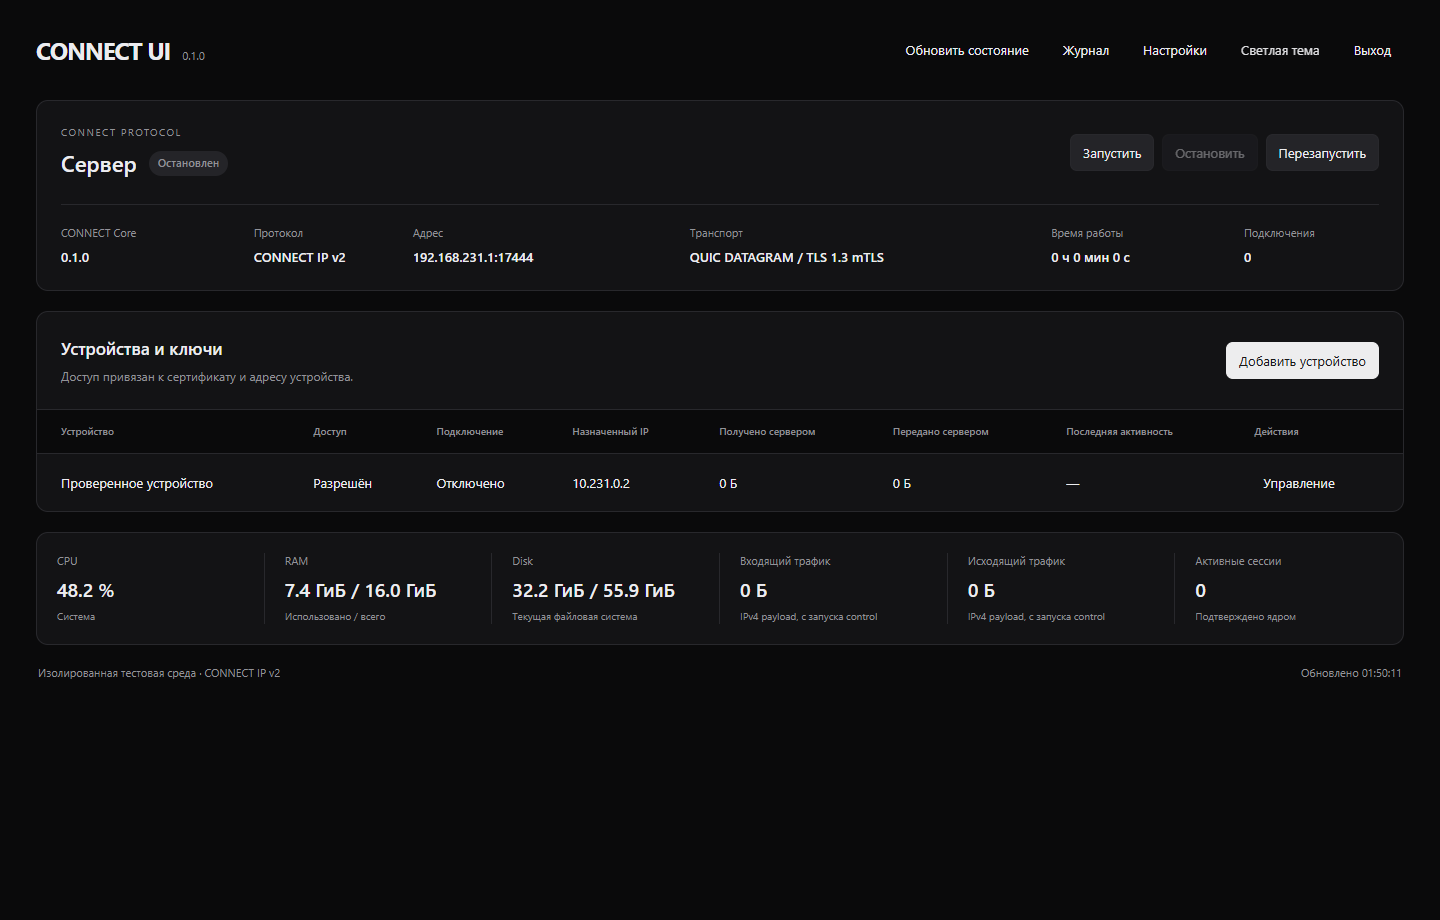
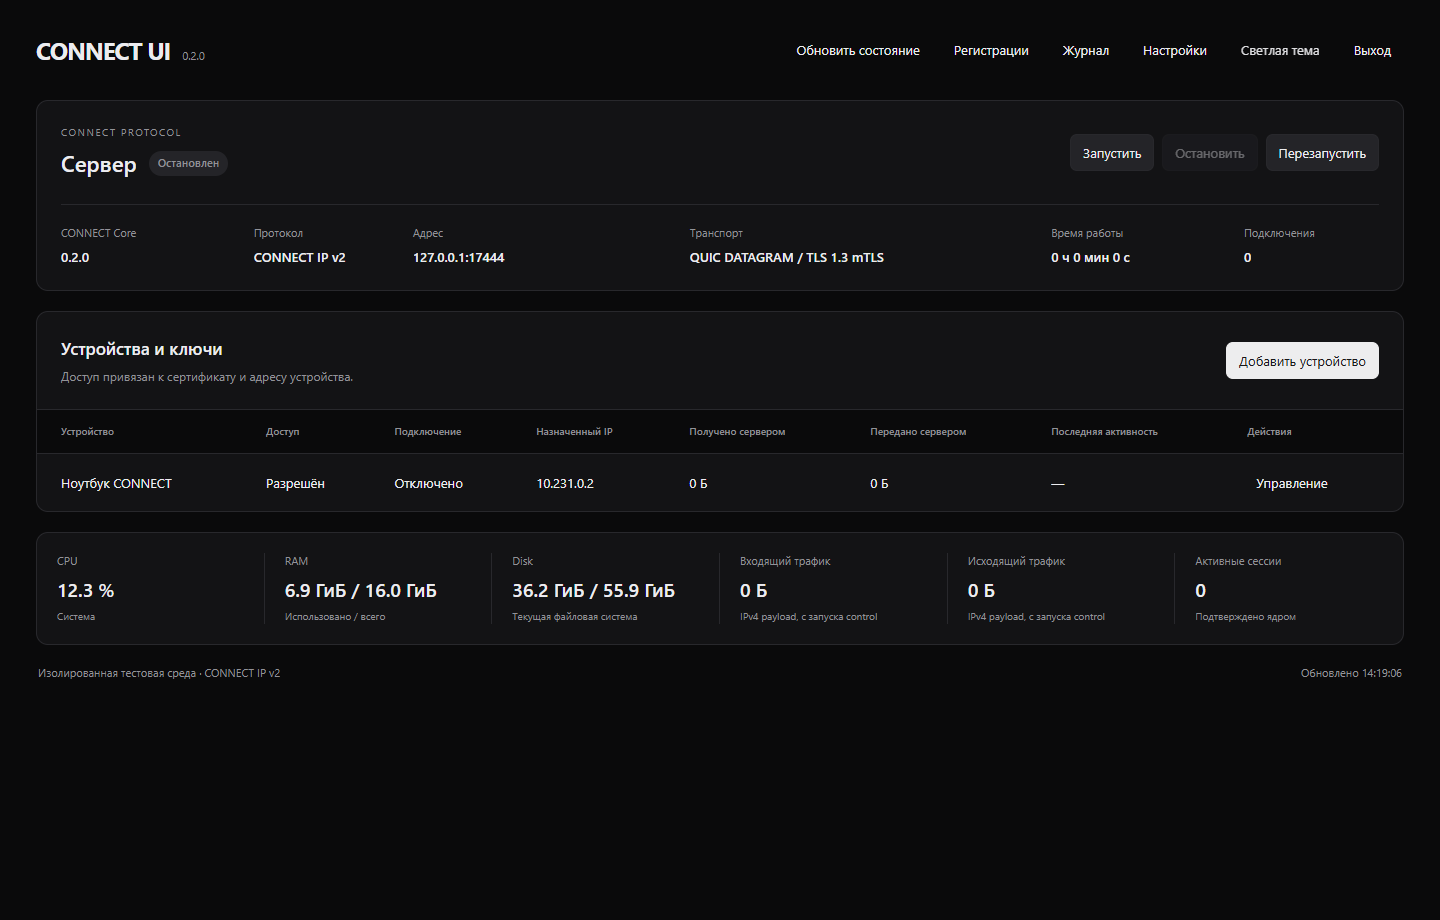
Validate real client URI onboarding and scoped VPS forwarding with service hardening

diff --git a/scripts/connect-install.py b/scripts/connect-install.py
@@ -122,9 +122,10 @@ def build(args, stage):
 
 def unit_files():
     hardening = 'NoNewPrivileges=yes\nProtectSystem=strict\nProtectHome=yes\nPrivateTmp=yes\nUMask=0077\nRestrictAddressFamilies=AF_INET AF_INET6 AF_UNIX\n'
+    core_hardening = hardening.replace('AF_INET AF_INET6 AF_UNIX', 'AF_INET AF_INET6 AF_UNIX AF_NETLINK')
     return {
         'connect-core-network.service': '[Unit]\nDescription=CONNECT owned TUN and scoped rules\nAfter=network-online.target\nWants=network-online.target\nBefore=connect-core.service\n\n[Service]\nType=oneshot\nRemainAfterExit=yes\nExecStart=/usr/bin/python3 /opt/connect-core/current/scripts/connect-vps-network.py apply /var/lib/connect-core-installer/network.json\nExecStop=/usr/bin/python3 /opt/connect-core/current/scripts/connect-vps-network.py rollback /var/lib/connect-core-installer/network.json\n\n[Install]\nWantedBy=multi-user.target\n',
-        'connect-core.service': '[Unit]\nDescription=CONNECT Core control and IP v2 server\nRequires=connect-core-network.service\nAfter=connect-core-network.service\n\n[Service]\nUser=connectcore\nSupplementaryGroups=connectadmin\nExecStart=/opt/connect-core/current/bin/connect-control serve /var/lib/connect-core/control/control.json\nRestart=on-failure\nRestartSec=3\nTimeoutStopSec=20\n' + hardening + 'ReadWritePaths=/var/lib/connect-core/control\nCapabilityBoundingSet=\nDevicePolicy=closed\nDeviceAllow=/dev/net/tun rw\n\n[Install]\nWantedBy=multi-user.target\n',
+        'connect-core.service': '[Unit]\nDescription=CONNECT Core control and IP v2 server\nRequires=connect-core-network.service\nAfter=connect-core-network.service\n\n[Service]\nUser=connectcore\nSupplementaryGroups=connectadmin\nExecStart=/opt/connect-core/current/bin/connect-control serve /var/lib/connect-core/control/control.json\nRestart=on-failure\nRestartSec=3\nTimeoutStopSec=20\n' + core_hardening + 'ReadWritePaths=/var/lib/connect-core/control\nCapabilityBoundingSet=\nDevicePolicy=closed\nDeviceAllow=/dev/net/tun rw\n\n[Install]\nWantedBy=multi-user.target\n',
         'connect-ui.service': '[Unit]\nDescription=CONNECT UI local panel\nAfter=connect-core.service\n\n[Service]\nUser=connectui\nSupplementaryGroups=connectadmin\nExecStart=/opt/connect-core/current/bin/connect-ui serve /etc/connect-core/ui.json\nRestart=on-failure\nRestartSec=3\nTimeoutStopSec=20\n' + hardening + 'CapabilityBoundingSet=\n\n[Install]\nWantedBy=multi-user.target\n',
     }
 
@@ -280,6 +281,10 @@ def main():
         if a.action == 'install':
             if not a.endpoint: raise RuntimeError('--endpoint ASSIGNED_IPV4:UDP_PORT is required')
             ensure_fresh()
+            endpoint_port = int(a.endpoint.rsplit(':', 1)[1])
+            ports = {endpoint_port: socket.SOCK_DGRAM, a.panel_port: socket.SOCK_STREAM, a.control_port: socket.SOCK_STREAM, a.enrollment_port: socket.SOCK_STREAM}
+            if len(ports) != 4: raise RuntimeError('CONNECT ports must be distinct')
+            check_ports(ports)
         else:
             m = json.loads((JOURNAL / 'manifest.json').read_text()); verify_owned(m)
             if a.action == 'status': print(json.dumps({k:v for k,v in m.items() if k in ['schema','revision','previous_revision','panel_port','installed']}, indent=2)); return

diff --git a/scripts/installer-smoke.py b/scripts/installer-smoke.py
@@ -38,9 +38,16 @@ with tempfile.TemporaryDirectory(prefix='connect-installer-check-') as td:
     # A real neighboring service + firewall chain survive installation/uninstall.
     neighbor = subprocess.Popen([sys.executable,'-m','http.server','17889','--bind','127.0.0.1'], stdout=subprocess.DEVNULL, stderr=subprocess.DEVNULL)
     run('iptables','-N','CONNECT_NEIGHBOR_FIXTURE');run('iptables','-A','CONNECT_NEIGHBOR_FIXTURE','-j','RETURN')
-    run('ip','addr','add','198.18.0.1/32','dev','lo')
+    # A separate service namespace proves actual forwarding and masquerade,
+    # instead of merely injecting a packet into a host-local UDP socket.
+    run('ip','netns','add','connect-install-fixture')
+    run('ip','link','add','cc-eg0','type','veth','peer','name','cc-es0','netns','connect-install-fixture')
+    run('ip','addr','add','198.18.0.2/24','dev','cc-eg0');run('ip','link','set','cc-eg0','up')
+    run('ip','-n','connect-install-fixture','addr','add','198.18.0.1/24','dev','cc-es0');run('ip','-n','connect-install-fixture','link','set','cc-es0','up');run('ip','-n','connect-install-fixture','link','set','lo','up')
+    echo=subprocess.Popen(['ip','netns','exec','connect-install-fixture',str(root/'bin'/'connect-vps-probe'),'serve'],stdout=subprocess.PIPE,stderr=subprocess.DEVNULL,text=True)
+    assert echo.stdout.readline().strip()=='ready', 'UDP service fixture not ready'
     before_firewall=network.firewall();before_routes=network.routes();before_global=pathlib.Path('/proc/sys/net/ipv4/ip_forward').read_text()
-    args = [sys.executable,str(root/'scripts'/'connect-install.py'),'install','--source',str(root),'--endpoint','127.0.0.1:17444','--password-file',str(secret),'--yes']
+    args = [sys.executable,str(root/'scripts'/'connect-install.py'),'install','--source',str(root),'--endpoint','127.0.0.1:17444','--uplink','cc-eg0','--password-file',str(secret),'--yes']
     importer = None
     try:
         # Occupied-port check rejects before accounts/services/interfaces are created.
@@ -109,4 +116,4 @@ with tempfile.TemporaryDirectory(prefix='connect-installer-check-') as td:
         if (installer.JOURNAL/'manifest.json').exists():
             installer.rollback_install(json.loads((installer.JOURNAL/'manifest.json').read_text()))
         neighbor.terminate();neighbor.wait();run('iptables','-F','CONNECT_NEIGHBOR_FIXTURE');run('iptables','-X','CONNECT_NEIGHBOR_FIXTURE')
-        run('ip','addr','del','198.18.0.1/32','dev','lo')
+        echo.terminate();echo.wait();run('ip','link','delete','cc-eg0');run('ip','netns','del','connect-install-fixture')

diff --git a/scripts/vps-probe.go b/scripts/vps-probe.go
@@ -23,6 +23,28 @@ func run() error {
 	if os.Getenv("GITHUB_ACTIONS") != "true" || os.Getenv("CONNECT_DISPOSABLE_INSTALL_TEST") != "1" || len(os.Args) != 2 {
 		return errors.New("disposable CI opt-in required")
 	}
+	if os.Args[1] == "serve" {
+		l, e := net.ListenUDP("udp4", &net.UDPAddr{IP: net.ParseIP("198.18.0.1"), Port: 18332})
+		if e != nil {
+			return e
+		}
+		defer l.Close()
+		fmt.Println("ready")
+		l.SetDeadline(time.Now().Add(3 * time.Minute))
+		buf := make([]byte, 100)
+		for {
+			n, peer, e := l.ReadFromUDP(buf)
+			if e != nil {
+				return e
+			}
+			if !peer.IP.Equal(net.ParseIP("198.18.0.2")) {
+				return errors.New("scoped VPS masquerade missing")
+			}
+			if _, e = l.WriteToUDP(buf[:n], peer); e != nil {
+				return e
+			}
+		}
+	}
 	cfg, e := ipvpn.Load(os.Args[1])
 	if e != nil {
 		return e
@@ -43,25 +65,6 @@ func run() error {
 	}
 	defer q.CloseWithError(0, "probe completed")
 	dst := netip.MustParseAddr("198.18.0.1")
-	l, e := net.ListenUDP("udp4", &net.UDPAddr{IP: net.IP(dst.AsSlice())})
-	if e != nil {
-		return e
-	}
-	defer l.Close()
-	l.SetDeadline(time.Now().Add(6 * time.Second))
-	done := make(chan error, 1)
-	go func() {
-		buf := make([]byte, 100)
-		n, peer, e := l.ReadFromUDP(buf)
-		if e == nil {
-			if string(buf[:n]) != "real-vps-probe" {
-				e = errors.New("corrupted TUN payload")
-			} else {
-				_, e = l.WriteToUDP(buf[:n], peer)
-			}
-		}
-		done <- e
-	}()
 	payload := []byte("real-vps-probe")
 	p := make([]byte, 28+len(payload))
 	p[0] = 0x45
@@ -71,7 +74,7 @@ func run() error {
 	copy(p[12:16], policies[""].Device.AsSlice())
 	copy(p[16:20], dst.AsSlice())
 	binary.BigEndian.PutUint16(p[20:22], 25000)
-	binary.BigEndian.PutUint16(p[22:24], uint16(l.LocalAddr().(*net.UDPAddr).Port))
+	binary.BigEndian.PutUint16(p[22:24], 18332)
 	binary.BigEndian.PutUint16(p[24:26], uint16(8+len(payload)))
 	copy(p[28:], payload)
 	var sum uint32
@@ -92,5 +95,5 @@ func run() error {
 	if !policies[""].Allows(reply, false) || string(reply[28:]) != string(payload) {
 		return errors.New("real TUN echo mismatch")
 	}
-	return <-done
+	return nil
 }
